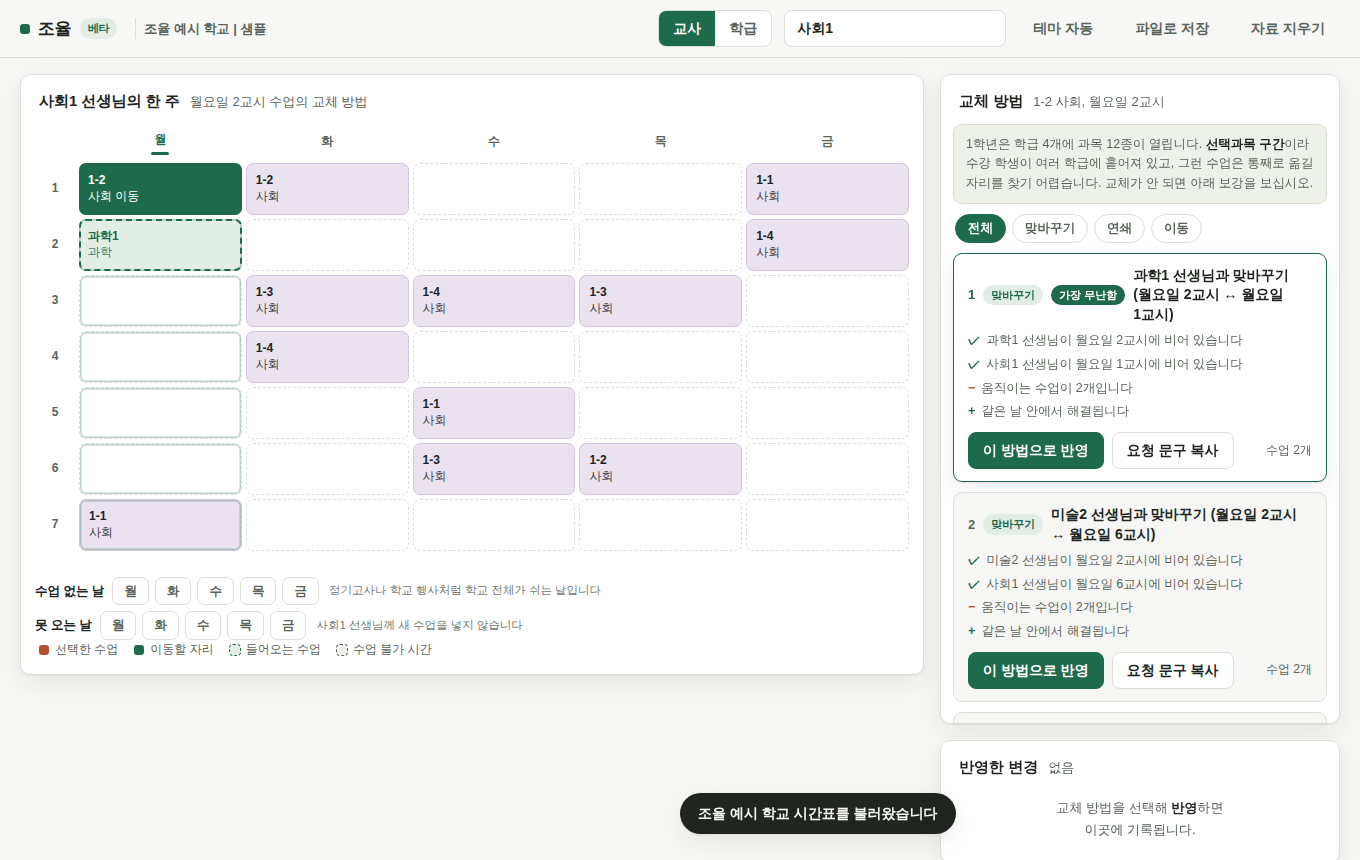
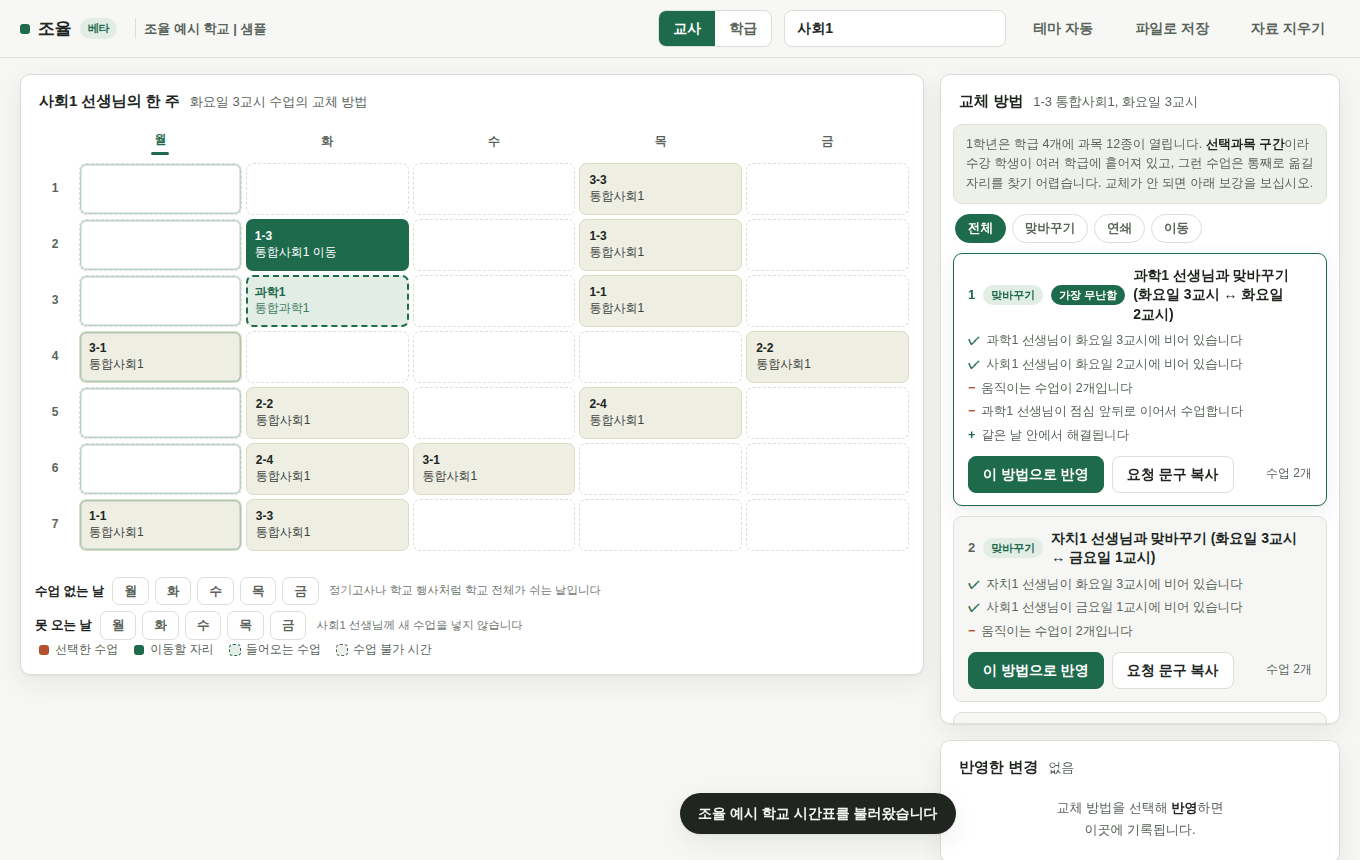
예시 학교를 실제 학교만큼 어렵게 만든다
폰 화면을 두 번 고치고 통과했다고 적었는데, 예시 학교의 과목명이 "국어", "과학" 처럼
짧아서 통과한 것이었다. 실제 자료의 과목명은 중앙 6자에 최대 14자다.
쉬운 표본으로 재면 검사도 쉬운 것만 잰다.

예시 학교의 과목을 실측에서 실제로 나온 이름으로 바꿨다.

    전  국어, 수학, 과학                          가장 긴 것 4자
    후  공통국어1, 성공적인 직업생활,              가장 긴 것 14자
        휠·타이어·얼라인먼트 정비

바꾼 뒤 폰 학급 보기에서 32칸 가운데 4칸이 한 줄, 20칸이 두 줄, 6칸이 세 줄,
2칸이 네 줄로 접혔다. 잘린 글자는 0이고 문서 폭은 그대로 390이다.
768 과 1360 에서도 잘린 것이 없다.

교사 이름은 과목의 짧은 이름으로 따로 받는다. 과목명을 그대로 쓰면
"휠·타이어·얼라인먼트 정비1" 같은 교사 이름이 나온다. 예시 학교의 교사 이름은
무엇을 가르치는지 바로 보이는 편이 좋아 사람 이름 대신 과목의 짧은 이름을 쓴다.

엔진의 기본 과목 목록은 건드리지 않았다. 시험 145개가 그 값에 기대고 있다.
genSchool 에 목록을 넘길 수 있게만 열었다.

가운데점이 든 이름은 그대로 두었다. 저장 값이라 문장 부호 규칙의 대상이 아니고,
폭을 재는 데는 그 이름이 가장 어려운 경우다.

diff --git a/packages/engine/src/synthetic.ts b/packages/engine/src/synthetic.ts
@@ -34,6 +34,19 @@ export interface SyntheticOptions {
   seed?: number;
   /** 교사 1인 주당 최대 담당 시수 산정 기준. 작을수록 교사가 많아진다. */
   teacherLoad?: number;
+  /**
+   * 과목과 주당 시수, 그리고 교사 이름에 쓸 짧은 이름.
+   *
+   * 기본값은 짧은 과목명이라 화면 폭을 재는 데 쓰면 실제보다 쉽게 나온다.
+   * 실제 자료의 과목명은 중앙 6자에 최대 14자다("휠·타이어·얼라인먼트 정비").
+   * 그래서 화면을 재는 쪽에서는 실제에 가까운 목록을 넣을 수 있게 열어 둔다.
+   *
+   * 세 번째 값은 교사 이름이다. 없으면 과목명을 쓴다. 과목명이 길면
+   * 교사 이름도 함께 길어져 "휠·타이어·얼라인먼트 정비1" 같은 것이 나오므로 따로 받는다.
+   *
+   * 시수 합이 LESSONS_PER_DAY 의 합(32)과 같아야 한다. 다르면 만들다 실패한다.
+   */
+  subjects?: ReadonlyArray<readonly [string, number, string?]>;
 }
 
 /** 요일별 수업 교시 수. 합 32. */
@@ -51,6 +64,7 @@ export function genSchool(opts: SyntheticOptions = {}): TimetableInput {
   const classes = opts.classes ?? 30;
   const seed = opts.seed ?? 1;
   const teacherLoad = opts.teacherLoad ?? 15;
+  const subjects = opts.subjects ?? SUBJECT_HOURS;
   const cfg: ScheduleConfig = {
     days: 5,
     periods: 7,
@@ -67,11 +81,11 @@ export function genSchool(opts: SyntheticOptions = {}): TimetableInput {
   // 과목별 교사 풀을 만들고 학급마다 담당 교사를 라운드로빈으로 붙인다.
   const teacherOf = new Map<string, string>();
   const subjectOf = new Map<string, string>();
-  for (const [subject, hours] of SUBJECT_HOURS) {
+  for (const [subject, hours, label] of subjects) {
     const pool = Math.max(1, Math.ceil((classes * hours) / teacherLoad));
     for (let i = 0; i < classes; i++) {
       const klass = klassNames[i]!;
-      const teacher = `${subject}${(i % pool) + 1}`;
+      const teacher = `${label ?? subject}${(i % pool) + 1}`;
       teacherOf.set(`${klass}|${subject}`, teacher);
       subjectOf.set(`${klass}|${teacher}`, subject);
     }
@@ -81,7 +95,7 @@ export function genSchool(opts: SyntheticOptions = {}): TimetableInput {
   const demand = new Map<string, Map<string, number>>();
   for (const klass of klassNames) {
     const m = new Map<string, number>();
-    for (const [subject, hours] of SUBJECT_HOURS) {
+    for (const [subject, hours] of subjects) {
       const t = teacherOf.get(`${klass}|${subject}`)!;
       m.set(t, (m.get(t) ?? 0) + hours);
     }

diff --git a/apps/web/lib/app.ts b/apps/web/lib/app.ts
@@ -539,11 +539,41 @@ export function calendarCoversThisWeek(cal: Calendar | undefined, monday = weekM
   return cal.from <= ymd(monday) && ymd(friday) <= cal.to;
 }
 
+/**
+ * 예시 학교의 과목과 교사.
+ *
+ * 엔진 기본값은 "국어", "과학" 처럼 짧다. 그것으로 화면 폭을 재면 실제보다 쉽게 나온다.
+ * 실제 자료의 과목명은 중앙 6자에 최대 14자였고, 특성화고에서 특히 길다.
+ * 예시 학교가 쉬우면 폰 화면을 재는 검사도 쉬운 것만 재게 된다.
+ *
+ * 그래서 실측에서 실제로 나온 이름을 그대로 쓴다. 가운데점이 든 이름도 그대로 둔다.
+ * 저장 값이라 문장 부호 규칙의 대상이 아니고, 오히려 그 이름이 가장 어려운 경우다.
+ * 교사 이름은 과목의 짧은 이름으로 따로 준다. 과목명을 그대로 쓰면
+ * "휠·타이어·얼라인먼트 정비1" 같은 교사 이름이 나온다. 예시 학교의 교사 이름은
+ * 무엇을 가르치는지 바로 보이는 편이 좋아서 사람 이름 대신 과목의 짧은 이름을 쓴다.
+ *
+ * 시수 합은 32여야 한다. 4+4+3+2+2+2+3+3+3+2+2+2 = 32.
+ */
+const SAMPLE_SUBJECTS: ReadonlyArray<readonly [string, number, string?]> = [
+  ['공통국어1', 4, '국어'],
+  ['공통수학1', 4, '수학'],
+  ['공통영어1', 3, '영어'],
+  ['통합사회1', 2, '사회'],
+  ['통합과학1', 2, '과학'],
+  ['체육1', 2, '체육'],
+  ['성공적인 직업생활', 3, '직업생활'],
+  ['디지털 논리 회로', 3, '논리회로'],
+  ['하드웨어 부품 선정', 3, '부품선정'],
+  ['휠·타이어·얼라인먼트 정비', 2, '정비'],
+  ['진로활동', 2, '진로'],
+  ['자율·자치활동', 2, '자치'],
+];
+
 export function sampleSchool(): Loaded {
   return {
     schoolName: `${BRAND} 예시 학교`,
     source: '샘플',
-    input: genSchool({ classes: 12, seed: 42 }),
+    input: genSchool({ classes: 12, seed: 42, subjects: SAMPLE_SUBJECTS }),
   };
 }
 
